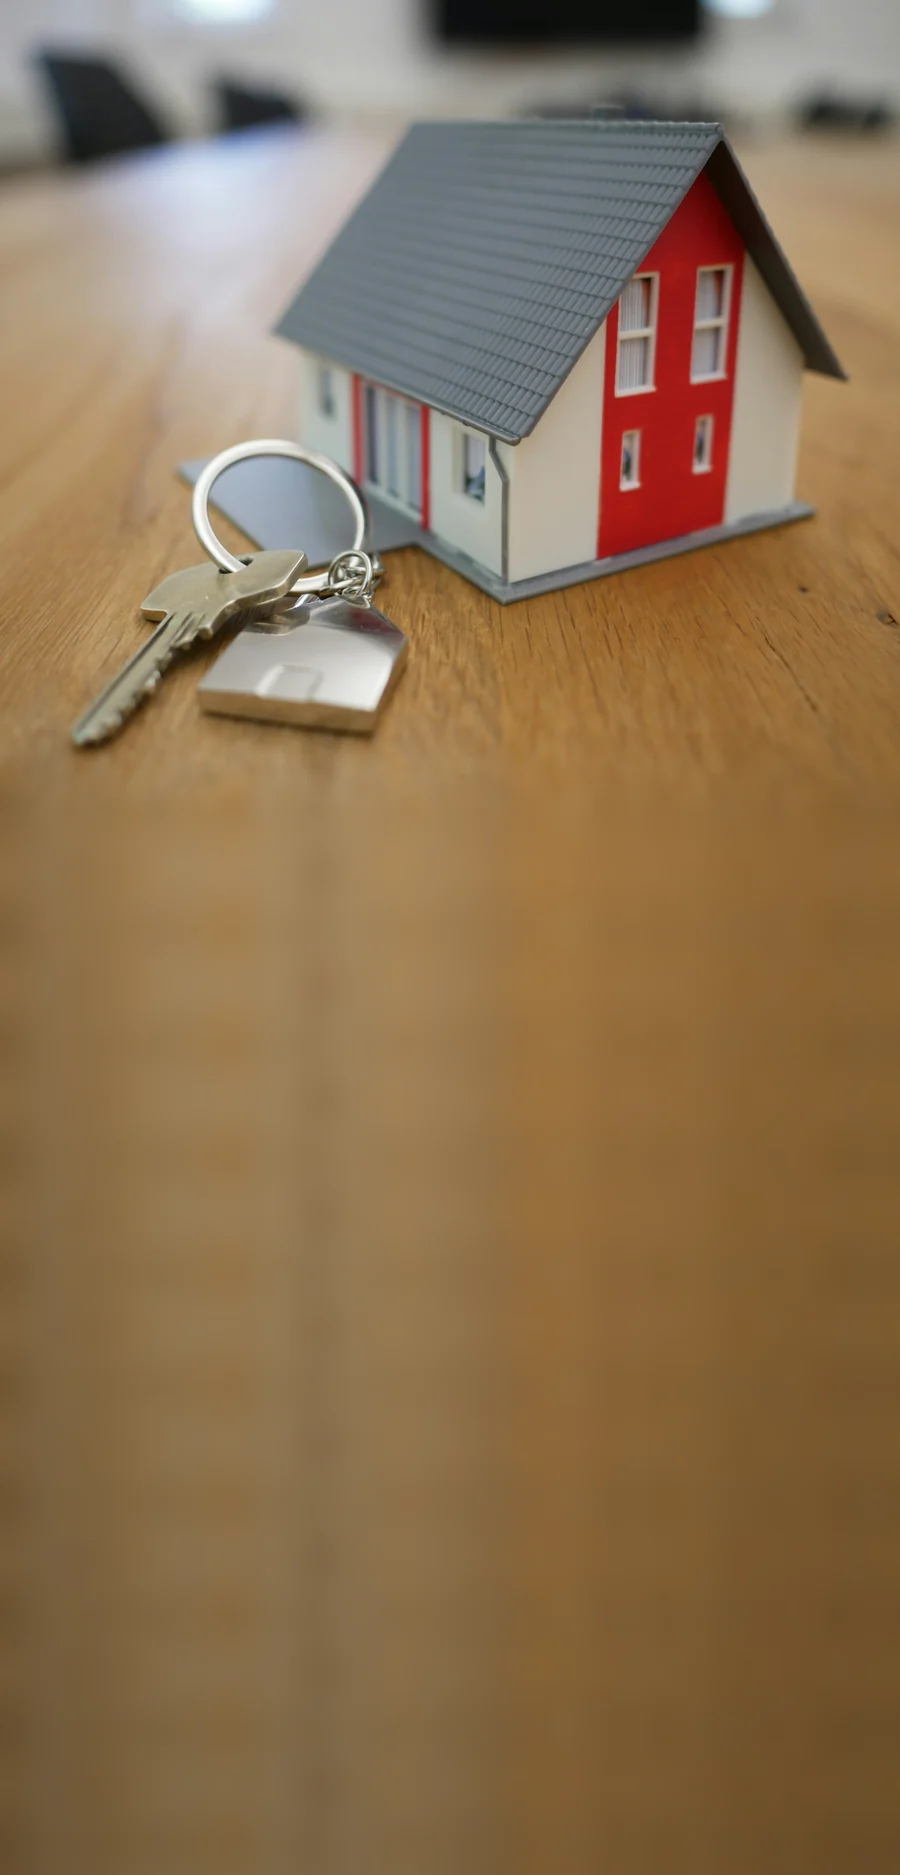
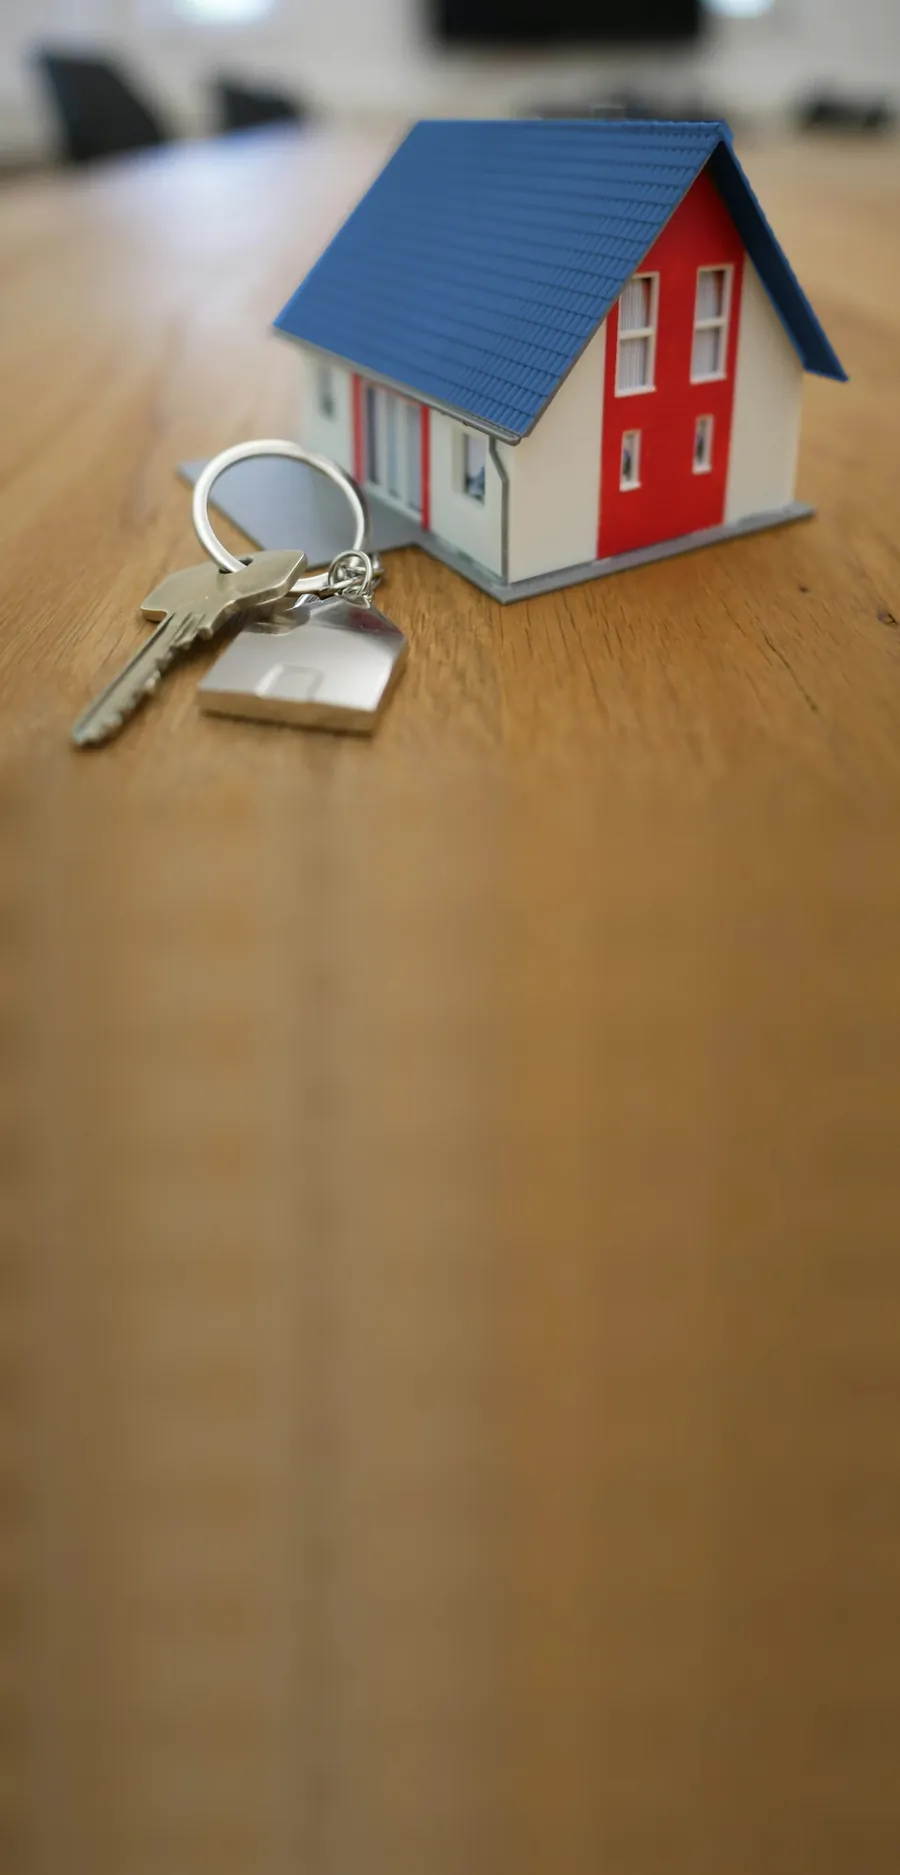
Startseite: Haus im Titelbild mit blauem Dach (wie Baufinanzierung), Dachrinne bleibt grau
Claude-Session: https://claude.ai/code/session_01J9JEsdcecjFsMGsC3GDkAA

Changed region(s): [[0.3111, 0.0619, 0.9333, 0.2475]]

diff --git a/src/content/images.ts b/src/content/images.ts
@@ -27,7 +27,7 @@ export const images: Record<string, { alt: string; pos?: string; fit?: boolean }
 };
 
 /** Versionsnummer der Bilder: bei jedem Bildtausch erhöhen, damit Browser keine alte Fassung aus dem Cache zeigen. */
-export const IMG_V = "13";
+export const IMG_V = "14";
 export const img = (file: string) => `/img/${file}?v=${IMG_V}`;
 
 /** Bildangabe aus dem Bearbeitungsbereich normalisieren: "/img/rechner.webp" → Bildschlüssel "rechner" (mit Handy- und Kleinfassungen). */
